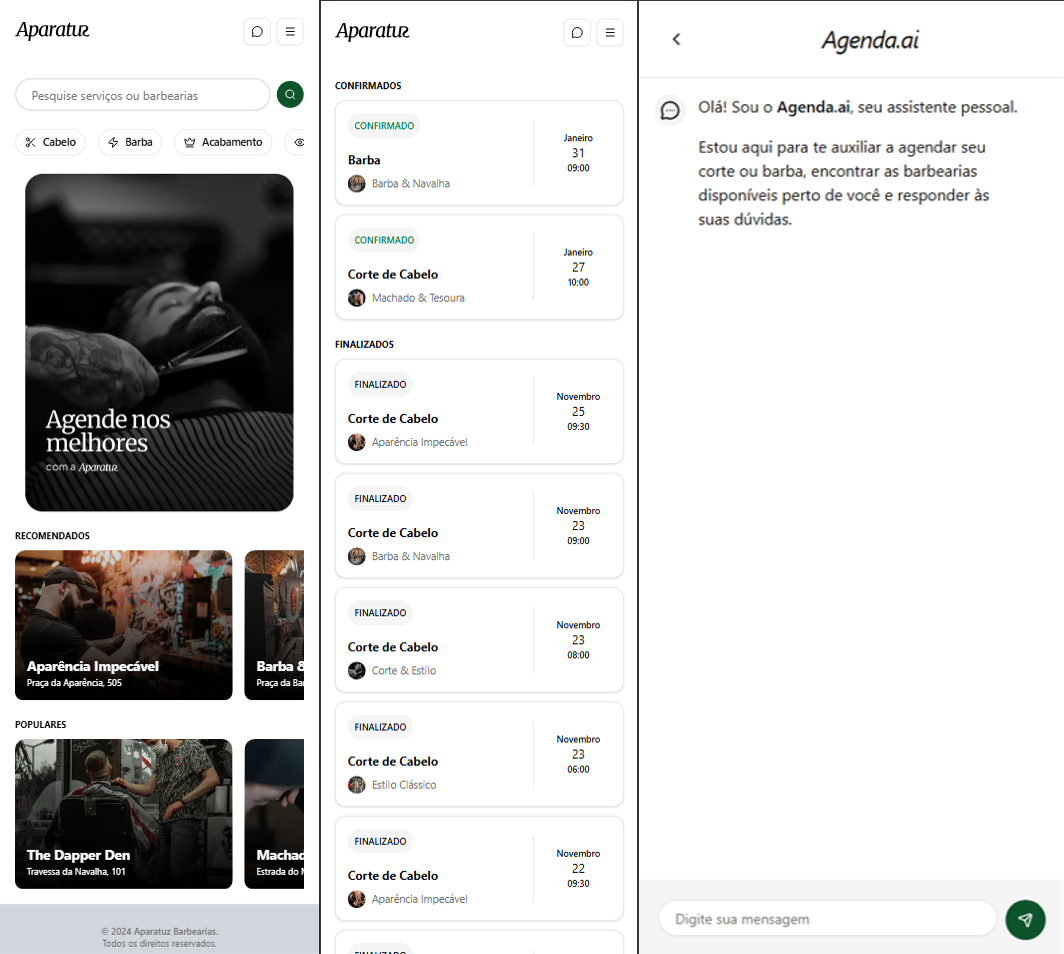
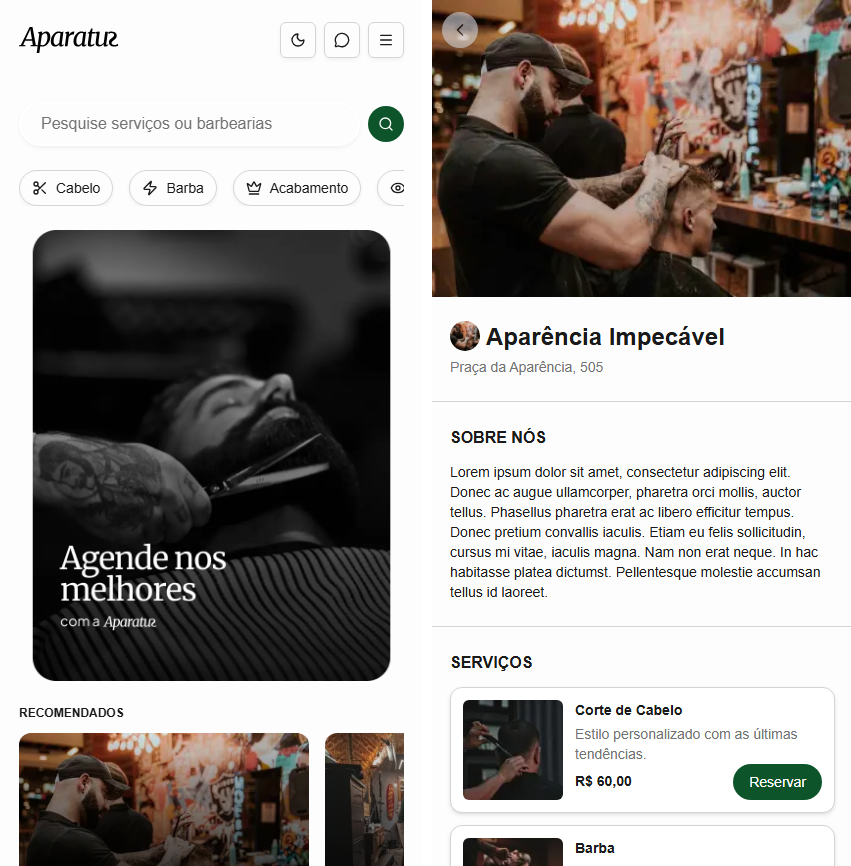
update README

diff --git a/README.md b/README.md
@@ -1,54 +1,156 @@
-# saas-barberia
+# SaaS Barbearia (Aparatus)
 
-O SaaS Barbearia é uma aplicação para gestão de agendamentos e clientes para barbearias. Feito para pequenas barbearias que precisam digitalizar agendamentos e melhorar a experiência do cliente.
+Plataforma moderna de gestão e agendamento de serviços em barbearias, com suporte a busca de estabelecimentos, agendamento de horários em tempo real, gerenciamento de reservas e assistente virtual inteligente (**Agenda.ai**) integrado via IA generativa para agendamentos conversacionais.
 
-## Principais features
+![Demonstração da Aplicação](public/demo.png)
 
-- Agendamento online com controle de horários
-- Cadastro e histórico de clientes
-- Autenticação com OAuth
-- Chat para atendimento com IA
-- Mobile First
+## Tech Stack
 
-![Screenshots do SaaS Barbearia](public/demo.png)
+- **Framework:** [Next.js 16](https://nextjs.org/) (App Router & Server Actions)
+- **Biblioteca Front-End:** [React 19](https://react.dev/)
+- **Linguagem:** [TypeScript](https://www.typescriptlang.org/)
+- **Banco de Dados & ORM:** PostgreSQL com [Prisma ORM](https://www.prisma.io/) (`@prisma/client` e `@prisma/adapter-pg`)
+- **Autenticação:** [Better Auth](https://www.better-auth.com/) com login social via Google OAuth
+- **Inteligência Artificial & Streaming:** [Vercel AI SDK](https://sdk.vercel.ai/) (`ai` e `@ai-sdk/react`) integrado com Google Generative AI (`@ai-sdk/google` / Gemini) e renderização via [Streamdown](https://github.com/streamdown/streamdown)
+- **Estilização:** [Tailwind CSS v4](https://tailwindcss.com/) e [Lucide React](https://lucide.dev/) (ícones)
+- **Componentes UI:** [Radix UI primitives](https://www.radix-ui.com/) estilizados no padrão shadcn/ui
+- **Gerenciamento de Estado & Requisições:** [TanStack React Query](https://tanstack.com/query)
+- **Tema:** [next-themes](https://github.com/pacocoursey/next-themes) (suporte a Light e Dark Mode)
+- **Manipulação de Datas:** [date-fns](https://date-fns.org/) e [React Day Picker](https://daypicker.dev/)
+- **Notificações:** [Sonner](https://sonner.emilkowal.ski/)
+- **Server Actions Type-Safe:** [next-safe-action](https://next-safe-action.dev/)
 
-## Tech stack
+---
 
-- Front-end: React / Next.js
-- Back-end: Node.js
-- Banco: PostgreSQL
+## Principais Features
 
-## Instalação (Desenvolvimento)
+- **Busca e Exploração de Barbearias:**
+  - Busca textual por nome de barbearia ou serviço.
+  - Filtros rápidos por categoria de serviços (Cabelo, Barba, Acabamento, Massagem, etc.).
+  - Seções de barbearias recomendadas e populares na Home.
+- **Página de Detalhes da Barbearia:**
+  - Informações completas (endereço, telefones para contato com cópia rápida para a área de transferência, descrição).
+  - Catálogo de serviços com valores formatados em moeda (BRL).
+- **Agendamento Completo de Serviços:**
+  - Seleção de data interativa com calendário (`react-day-picker`).
+  - Verificação dinâmica de horários disponíveis no dia selecionado.
+  - Confirmação de agendamento protegida por autenticação.
+- **Assistente Virtual Inteligente (Agenda.ai):**
+  - Chat interativo com streaming de respostas em tempo real com Google Gemini.
+  - Compreensão de datas em linguagem natural (ex: _"quero agendar para amanhã à tarde"_).
+  - Capacidade do bot (via Function Calling / Tools) de buscar barbearias, listar horários livres e efetivar o agendamento diretamente na conversa.
+- **Painel de Agendamentos do Usuário:**
+  - Visualização separada de agendamentos confirmados e finalizados/anteriores.
+  - Cancelamento de reservas com atualização imediata de estado.
+- **Autenticação com Google:**
+  - Login e gerenciamento de sessão simplificado e seguro com Better Auth.
+- **Tema Claro / Escuro:**
+  - Alternância de tema Dark/Light com persistência e adaptação de logos e componentes visuais.
 
-- Clone o repositório e entre na pasta:
+---
 
-```code
-git clone https://github.com/leopinheirosilva/saas-barbearia.git
+## Estrutura do Banco de Dados
+
+O banco relacional estruturado no Prisma conta com as seguintes entidades:
+
+- `Barbershop`: Cadastro de barbearias (nome, endereço, descrição, telefones, foto).
+- `BarbershopService`: Catálogo de serviços oferecidos pelas barbearias e preços em centavos (`priceInCents`).
+- `Booking`: Registro de reservas vinculando usuário, barbearia, serviço, data/hora e status de cancelamento.
+- `User`, `Session`, `Account`, `Verification`: Modelos gerenciados pelo Better Auth para controle de credenciais, sessões e contas vinculadas (Google OAuth).
+
+---
+
+## Instalação e Execução Local
+
+### Pré-requisitos
+
+- Node.js (versão 20 ou superior recomendada)
+- Gerenciador de pacotes `pnpm` (ou `npm` / `yarn`)
+- Instância de banco de dados PostgreSQL ativa
+
+### 1. Clonar o repositório
+
+```bash
+git clone <url-do-repositorio>
 cd saas-barbearia
 ```
 
-- Configure variáveis de ambiente (crie um `.env` a partir do `.env.example`)
+### 2. Instalar as dependências
 
-- Instale as dependências:
-
-```code
-npm install
+```bash
+pnpm install
 ```
 
-- Rode a aplicação:
+### 3. Configurar variáveis de ambiente
 
-```code
-npm run dev
+Copie o arquivo `.env.example` para `.env`:
+
+```bash
+cp .env.example .env
 ```
 
-## Deploy
+Preencha as variáveis de acordo com suas credenciais:
 
-- Vercel
+```env
+DATABASE_URL="postgresql://usuario:senha@localhost:5432/saas_barbearia?schema=public"
 
-clique [aqui](https://saas-barbearia-n8rt.vercel.app/) para acessar a aplicação!
+# Better Auth
+BETTER_AUTH_SECRET="sua-chave-secreta"
+BETTER_AUTH_URL="http://localhost:3000"
+NEXT_PUBLIC_APP_URL="http://localhost:3000"
 
-## Contato
+# Google OAuth
+GOOGLE_CLIENT_ID="seu-google-client-id"
+GOOGLE_CLIENT_SECRET="seu-google-client-secret"
 
-Email: <leonardopinheirosilva16@gmail.com>
+# IA (Google Gemini)
+GOOGLE_GENERATIVE_AI_API_KEY="sua-api-key-do-google-gemini"
+```
 
-LinkedIn: <https://www.linkedin.com/in/leonardo-pinheiro-13ba26281/>
+### 4. Executar migrações e popular o banco
+
+Execute as migrações e popule o banco com dados de exemplo de barbearias e serviços:
+
+```bash
+# Gerar cliente do Prisma
+pnpm prisma generate
+
+# Executar migrações do banco
+pnpm prisma migrate dev
+
+# Popular com dados iniciais (seed)
+pnpm tsx prisma/seed.ts
+```
+
+### 5. Iniciar o servidor de desenvolvimento
+
+```bash
+pnpm run dev
+```
+
+Abra [http://localhost:3000](http://localhost:3000) no seu navegador para ver a aplicação.
+
+---
+
+## Estrutura do Projeto
+
+```
+saas-barbearia/
+├── app/
+│   ├── _actions/          # Server Actions (criação/cancelamento de reservas, horários disponíveis)
+│   ├── _components/       # Componentes compartilhados da aplicação (Header, Footer, Sheets, etc.)
+│   │   └── ui/            # Primitivos de UI (Button, Card, Sheet, Calendar, Dialog, etc.)
+│   ├── _providers/        # Providers de contexto (React Query, etc.)
+│   ├── api/
+│   │   ├── auth/          # Handlers de autenticação do Better Auth
+│   │   └── chat/          # Rota de streaming de IA com ferramentas do Agenda.ai
+│   ├── barbershops/       # Páginas de busca e detalhes da barbearia (/barbershops/[id])
+│   ├── bookings/          # Página de visualização e gerenciamento de agendamentos
+│   ├── chat/              # Interface do assistente de chat inteligente
+│   ├── globals.css        # Estilos globais e tema Tailwind CSS v4
+│   ├── layout.tsx         # Root layout da aplicação com providers de tema e fontes
+│   └── page.tsx           # Página inicial (Home) com destaques e buscas
+├── lib/                   # Utilitários e instâncias globais (cliente Prisma, autenticação)
+├── prisma/                # Schema do banco de dados e script de seed
+└── public/                # Imagens, logos (light/dark) e banners estáticos
+```
